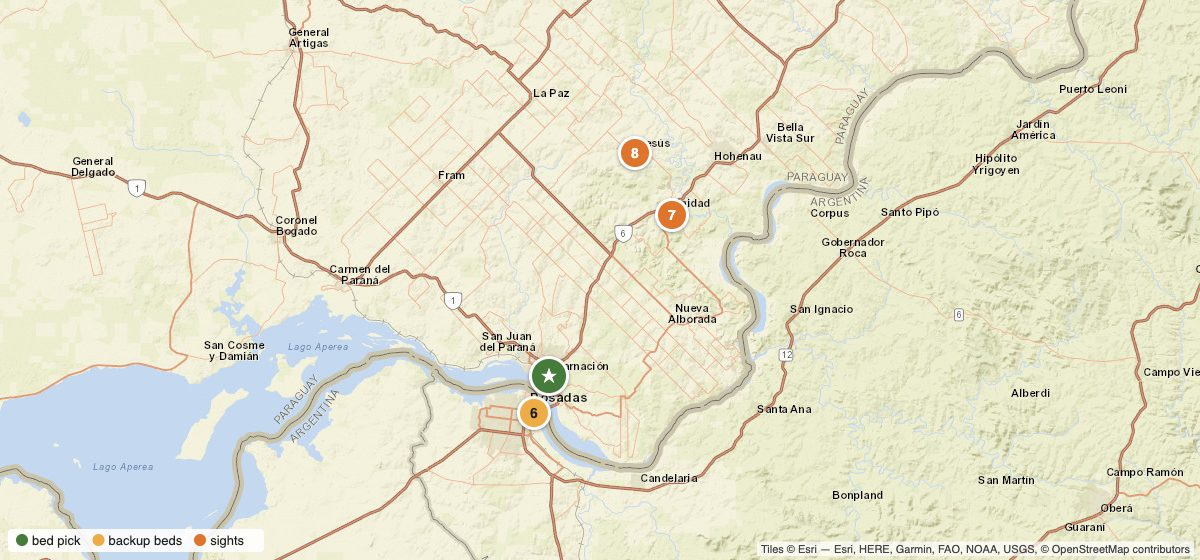
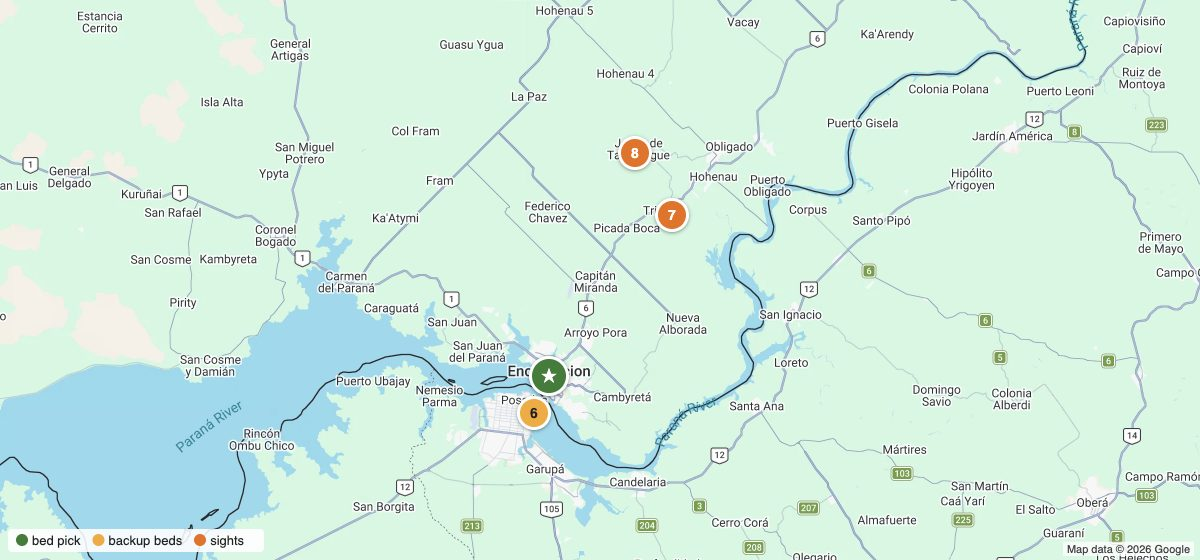
LatAm v5: Encarnación maps on a Google Maps base (Google's embed + overlaid pins), live-map links; renderer + AGENTS updated

diff --git a/tools/route-map/stop_map.py b/tools/route-map/stop_map.py
@@ -1,5 +1,5 @@
 #!/usr/bin/env python3
-"""Static stop maps for the trip guides: Esri World Street Map / World Topo Map tiles + numbered, colour-coded pins.
+"""Static stop maps for the trip guides: a Google Maps base (its own embed) + numbered, colour-coded pins.
 
 Usage:
   python3 tools/route-map/stop_map.py maps.json OUTDIR
@@ -7,7 +7,8 @@ Usage:
                   "points": [{"n": "1", "kind": "pick|bed|bus|sight|food|beer|hike|walk", "lat": .., "lng": ..}, ...]}, ...]
   → writes OUTDIR/<id>.html; screenshot each with tools/route-map/stop_map_shot.mjs (headless Chrome via pw.mjs) to <id>.jpg.
 
-Tiles: Esri ArcGIS Online basemaps (World_Street_Map by default; set "style": "World_Topo_Map" for hikes), with attribution drawn on each image.
+Base: Google Maps (`maps.google.com/maps?ll=…&z=…&output=embed`, "t": "m" roadmap or "p" terrain for hikes), with the pins drawn on top
+at the same zoom. "base": "esri" falls back to Esri ArcGIS tiles ("style": "World_Street_Map" / "World_Topo_Map").
 openstreetmap.org tiles return 403 to file:// pages, and CARTO now needs an API key, so don't switch back.
 """
 import json, math, sys, os
@@ -24,6 +25,13 @@ def px(lat, lng, z):
     return x, y
 
 
+def unpx(x, y, z):
+    s = 256 * 2 ** z
+    lng = x / s * 360 - 180
+    lat = math.degrees(math.atan(math.sinh(math.pi * (1 - 2 * y / s))))
+    return lat, lng
+
+
 def page(m):
     W, H, pad = m.get('w', 1200), m.get('h', 620), 70
     pts = m['points']
@@ -38,11 +46,20 @@ def page(m):
     cx, cy = (max(xs) + min(xs)) / 2, (max(ys) + min(ys)) / 2
     x0, y0 = cx - W / 2, cy - H / 2
     tiles = []
-    for tx in range(int(x0 // 256), int((x0 + W) // 256) + 1):
-        for ty in range(int(y0 // 256), int((y0 + H) // 256) + 1):
-            n = 2 ** z
-            tiles.append(f'<img src="https://server.arcgisonline.com/ArcGIS/rest/services/{m.get("style", "World_Street_Map")}/MapServer/tile/{z}/{ty}/{tx % n}" '
-                         f'style="position:absolute;left:{tx * 256 - x0:.0f}px;top:{ty * 256 - y0:.0f}px;width:256px;height:256px">')
+    if m.get('base', 'google') == 'google':
+        # Google Maps' own embed, centred on the bbox centre at the same integer zoom (256-px Web Mercator, like the pins).
+        # It is 2*T px taller than the frame and shifted up by T, which keeps the centre and hides the "View larger map" card;
+        # Google's own logo and attribution are drawn again in the bottom corner.
+        T = 70
+        clat, clng = unpx(cx, cy, z)
+        tiles.append(f'<iframe src="https://maps.google.com/maps?ll={clat:.6f},{clng:.6f}&z={z}&t={m.get("t", "m")}&hl=en&output=embed" '
+                     f'style="position:absolute;left:0;top:-{T}px;width:{W}px;height:{H + 2 * T}px;border:0"></iframe>')
+    else:
+        for tx in range(int(x0 // 256), int((x0 + W) // 256) + 1):
+            for ty in range(int(y0 // 256), int((y0 + H) // 256) + 1):
+                n = 2 ** z
+                tiles.append(f'<img src="https://server.arcgisonline.com/ArcGIS/rest/services/{m.get("style", "World_Street_Map")}/MapServer/tile/{z}/{ty}/{tx % n}" '
+                             f'style="position:absolute;left:{tx * 256 - x0:.0f}px;top:{ty * 256 - y0:.0f}px;width:256px;height:256px">')
     pins = []
     for p in sorted(pts, key=lambda p: p['kind'] == 'pick'):
         x, y = px(p['lat'], p['lng'], z)
@@ -59,7 +76,8 @@ def page(m):
     return (f'<!doctype html><html><body style="margin:0"><div id="map" style="position:relative;width:{W}px;height:{H}px;overflow:hidden;background:#e8e4da">'
             + ''.join(tiles) + ''.join(pins)
             + f'<div style="position:absolute;left:8px;bottom:8px;background:rgba(255,255,255,.88);padding:4px 8px;border-radius:4px;font:13px Helvetica,Arial,sans-serif;color:#222">{legend}</div>'
-            + '<div style="position:absolute;right:6px;bottom:4px;font:11px Helvetica,Arial,sans-serif;color:#444;background:rgba(255,255,255,.7);padding:1px 4px">Tiles © Esri — Esri, HERE, Garmin, FAO, NOAA, USGS, © OpenStreetMap contributors</div>'
+            + (f'<div style="position:absolute;right:6px;bottom:4px;font:11px Helvetica,Arial,sans-serif;color:#444;background:rgba(255,255,255,.75);padding:1px 4px">Map data © {__import__("datetime").date.today().year} Google</div>' if m.get('base', 'google') == 'google' else
+               '<div style="position:absolute;right:6px;bottom:4px;font:11px Helvetica,Arial,sans-serif;color:#444;background:rgba(255,255,255,.7);padding:1px 4px">Tiles © Esri — Esri, HERE, Garmin, FAO, NOAA, USGS, © OpenStreetMap contributors</div>')
             + '</div></body></html>')
 
 

diff --git a/AGENTS.md b/AGENTS.md
@@ -53,7 +53,7 @@ A page-per-query loop is the fallback, not the default: it took ~17 min for a 50
 | **Google Maps directions** (walk / transit / drive time between two points; "how do I get to the hostel") | From any google.com/maps tab: `GET /maps/preview/directions?authuser=0&hl=en&gl=us&pb=…` with a captured pb template. Origin/destination sit in `!1m4!3m2!3d<lat>!4d<lng>` (twice), the mode in `!20m5!1e<mode>` (0 = drive, 2 = walk, 3 = transit), and the departure time in `!19m2!2e2!3j<epoch>` (local wall-clock as epoch). Response (`)]}'` prefix): the first `[secs,"N min"]` is the best route's duration and the first `[metres,"X km"]` its distance. Transit legs are a list of `[1,null,[3,"walk.png",…,"<walk min>"]]`, `[4,null,[3,"bus2.png",null,"Bus"…]]` and `[5,["<line>",…]]` (`[10]` = alternative line, `[9]` = next leg). Where Google has no transit data, a transit request returns a vehicle-free (driving-like) route. Find the places first with `/search?tbm=map&q=<name city>` (coords + fid); fall back to the Booking page's `data-atlas-latlng` for flats Google doesn't list. Tools: `~/.local/share/cdp-tools/tpl/maps-directions.js` + `maps-directions-run.mjs` (`JOBS_FILE=[[id,olat,olng,dlat,dlng,mode,epoch],…] OUT=`; ≈ 0.7 s per route, 300 routes in ~4 min on 24 Nov) |
 | Google Maps reviews | ⚠ **No replayable API yet** (photos do have one: see the hspqX row). The Reviews tab loads them without a visible `listugcposts`/XHR (7 Oct); the DOM read `div[data-review-id] .wiI7pd` (sort menu → Newest / Lowest rating) is the fallback. Capture the real request next time and record it here |
 | Google Maps **photos by dish topic** (Flatbread, Pierogi, Schnitzel…) | `POST /maps/_/MapsWizUi/data/batchexecute?rpcids=hspqX` from a maps tab. Template: `~/.local/share/cdp-tools/tpl/maps-hspqX-place.json`, whose `f.req` starts `[2,null,["<fid>",…,[[null,null,null,"/g/<mid>"]]],…`. Swap in the place's `0x…:0x…` fid and `/g/` id from `/search?tbm=map`. A last element of `[null,1,null,1]` returns the topic list (`"Cg…" id, ved, "Name", [[photo…["https://lh3…"]]]`); `[["<topicId>"],1,null,1]` returns that topic's photos. The `at=` token comes from the capture and is session-bound, so re-capture if you get a 400. Google's topic names are generic ("Sauerbraten" = Targowa's roulade), so check the photo before captioning. The **coordinate-only** hspqX variant (`[3,…,[null,lng,lat],25]`) returns Street View, not dishes |
-| **Place photos + stop maps for the guides** (visual aids) | **Photos:** `GET /maps/preview/place?authuser=0&hl=en&gl=us&pb=!1m14!1s<fid>…` from a maps tab. The captured URL is `~/.local/share/cdp-tools/tpl/maps-place-url.txt`; swap the fid. The response lists ~8–15 `https://lh3.googleusercontent.com/gps-cs-s/…` photos. Append `=w640-h400-p-k-no` (`-p` crops to the exact size; without it a tall photo fills the page). `/search?tbm=map` and the `/maps?ftid=` HTML carry no place photos. For landmarks and generic dishes, the Wikimedia Commons API (`generator=search&gsrnamespace=6&prop=imageinfo&iiurlwidth=480`) gives CC-licensed 500px thumbs; credit them in the guide. Check every photo by eye: render them as one contact sheet (HTML grid → `pw.mjs` screenshot → Read). **Maps:** `tools/route-map/stop_map.py` + `stop_map_shot.mjs` draw numbered, colour-coded pins (★ pick, yellow backups, blue arrival, orange sights, red food, purple drinks, brown hikes) on **Esri** World_Street_Map / World_Topo_Map tiles and save `guides/img/<stop>-map.jpg`. tile.openstreetmap.org returns 403 to `file://` pages, and CARTO now needs an API key. GitHub's ```` ```geojson ```` blocks render, but they ignore `marker-color` and cluster the pins, so they're no good as the main map. In GitHub's HTML tables use `<b>`/`<a>`, not markdown |
+| **Place photos + stop maps for the guides** (visual aids) | **Photos:** `GET /maps/preview/place?authuser=0&hl=en&gl=us&pb=!1m14!1s<fid>…` from a maps tab. The captured URL is `~/.local/share/cdp-tools/tpl/maps-place-url.txt`; swap the fid. The response lists ~8–15 `https://lh3.googleusercontent.com/gps-cs-s/…` photos. Append `=w640-h400-p-k-no` (`-p` crops to the exact size; without it a tall photo fills the page). `/search?tbm=map` and the `/maps?ftid=` HTML carry no place photos. For landmarks and generic dishes, the Wikimedia Commons API (`generator=search&gsrnamespace=6&prop=imageinfo&iiurlwidth=480`) gives CC-licensed 500px thumbs; credit them in the guide. Check every photo by eye: render them as one contact sheet (HTML grid → `pw.mjs` screenshot → Read). **Maps:** `tools/route-map/stop_map.py` + `stop_map_shot.mjs` (`WAIT=5000`) draw numbered, colour-coded pins (★ pick, yellow backups, blue arrival, orange sights, red food, purple drinks, brown hikes) on a **Google Maps** base and save `guides/img/<stop>-map.jpg`. The base is Google's own embed (`maps.google.com/maps?ll=<centre>&z=<int>&t=m|p&output=embed`) in an iframe, with the pins placed by 256-px Web Mercator at the same zoom. The Static Maps API needs a key and the raw tile servers aren't for direct use, so don't use either. `"base":"esri"` falls back to Esri tiles. tile.openstreetmap.org returns 403 to `file://` pages, and CARTO now needs an API key. GitHub's ```` ```geojson ```` blocks render, but they ignore `marker-color` and cluster the pins, so they're no good as the main map. In GitHub's HTML tables use `<b>`/`<a>`, not markdown |
 | Restaumatic restaurant menus (many Polish takeaway sites, "Zamów online") | `curl https://<site>/api/v1/sites/restaurant_menu/<restaurantId>/pl` returns JSON: every item with `name.pl`, a price under `price.values`, and a `photo.url`. Prefix the photo with `https://restaumatic-production.imgix.net` and add `?w=400&h=300&fit=crop`. The restaurant id is in the logo URL `uploads/restaurants/<id>/logo` (Ze Smakiem 288936) |
 | **Dish photos when Maps has no exact match** | Order: (1) the restaurant's own menu data (Restaumatic API, Next.js chunks, PDFs); (2) **zjedz.my/<slug>**, a Polish booking site whose SSR page pairs each menu item with an official photo (`storage/images/food/<hash>.webp`; parse in order: image → UPPERCASE name → `NN.00 zł`), found via Google Images; (3) **Google Images** via `fetch('/search?udm=2&q=…')` from a google.com tab, with originals as `["https://…jpg",h,w]` in the HTML. Check every candidate by eye before captioning. If nothing exact turns up, say so in the caption |
 | Images in GitHub markdown | GitHub's image proxy (camo) **drops images over 5 MB**: wrap them as `https://images.weserv.nl/?url=<host/path>&w=400`. Inside HTML `<table>` cells, markdown `**bold**` doesn't render, so use `<b>`. The blob view caches for a few minutes, so verify via `/blob/<sha>/file.md` |

diff --git a/trips/latam/guides/encarnacion.md b/trips/latam/guides/encarnacion.md
@@ -21,7 +21,7 @@ Part of the [LatAm itinerary](../itinerary.md) · region notes: [Paraguay + Urug
 
 **Around:** ★ Encarnación · **6** La Casa de Sol in Posadas (🎄 holiday backup, across the bridge) · **7** [Trinidad mission](https://www.google.com/maps?ftid=0x9457f0281002dcef:0x254e952c8c133fb) (≈ 27 km) · **8** [Jesús mission](https://www.google.com/maps?ftid=0x9457f6a927979049:0x71a255ba02d5cc94) (≈ 32 km)
 
-Everything here is also saved in your Google Maps lists: the pick is ⭐ Starred, backups are in 🛏 Beds – LatAm backups, sights are in Want to go, and food is in Restaurants.
+**Open the live map:** [town](https://www.google.com/maps/@-27.3305,-55.8680,15z) · [area](https://www.google.com/maps/@-27.20,-55.80,10z). When you're signed in, every place here also shows as a saved pin: the pick is ⭐ Starred, backups are in 🛏 Beds – LatAm backups, sights are in Want to go and food is in Restaurants.
 
 ## 📅 Day by day
 
